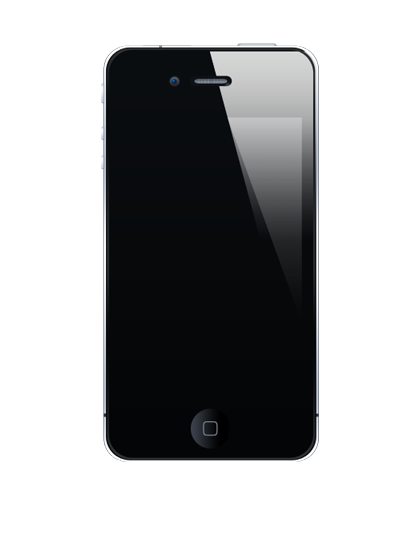
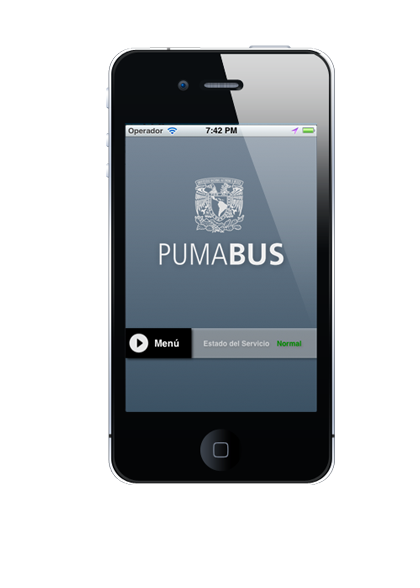
Added images and more text

diff --git a/app/assets/stylesheets/welcome.css.scss b/app/assets/stylesheets/welcome.css.scss
@@ -135,10 +135,22 @@ body, html {
 }
 
 #details {
-	padding-top: 70px;
-	height: 650px !important;
+	padding-top: 100px;
+	height: 720px !important;
 	background-color: rgba(1,16,46,1);
 	clear: right;
+	
+	.bottom-final {
+		margin-top: 50px;
+		width: 960px !important;
+					
+					
+		p {
+			text-align: center;
+			color: #DDBC69;
+			font-style: italic;
+		}
+	}
 	
 	.container {
 		width: 960px;
@@ -153,7 +165,8 @@ body, html {
 			li:hover, li.active {
 				background-color: rgba(255, 255, 255,0.02);
 			}
-			li {
+			
+			> li {
 				padding: 10px;
 				padding-bottom: 20px;
 				margin: 0;
@@ -172,12 +185,64 @@ body, html {
 					font-size: 13px;
 				}
 			}
+			
+			> li.no-border {
+				border-bottom: none;
+			}
 		}
 
 		.img-container {
 			height: 538px;
-			background-color: rgba(255, 255, 255,0.1);
+			
+			
+			div {
+				display: none;
+				margin-left: 100px;
+				margin-top:30px;
+				-moz-box-shadow: 1px 2px 3px #050505;
+				-webkit-box-shadow: 1px 2px 3px #050505;
+				box-shadow: 1px 2px 3px #050505;
+			}
+			
+			div#routes_ios {
+				background-image: url('../assets/routes_ios.png');
+				width: 322px;
+				height: 482px;
+				display: block;
+			}
+			
+			div#map_ios {
+				background-image: url('../assets/map_ios.png');
+				width: 322px;
+				height: 481px;
+			}
+			
+			div#real-time_ios {
+				background-image: url('../assets/rt_ios.png');
+				width: 322px;
+				height: 480px;
+			}
+			
+			div#places_ios {
+				background-image: url('../assets/places_ios.png');
+				width: 322px;
+				height: 480px;
+			}
+			
+			div#schedules_ios {
+				background-image: url('../assets/timetables_ios.png');
+				width: 322px;
+				height: 480px;
+			}
+			
+			div#bus_ios {
+				background-image: url('../assets/bus_ios.png');
+				width: 322px;
+				height: 482px;
+			}
 		}
+		
+		
 	}
 	
 }
@@ -283,7 +348,7 @@ body, html {
 }
 
 #contribute {
-	height: 700px;
+	height: 750px;
 	background-color: rgba(232, 150, 0, 0.3);
 	padding-top: 50px;
 	

diff --git a/app/assets/stylesheets/parallax.css.scss b/app/assets/stylesheets/parallax.css.scss
@@ -28,7 +28,7 @@ body {
 	height: 600px;
 	margin: 0 auto;
 	position: relative;
-	top: -30px;
+	top: 40px;
 	width: 960px;
 	
 	/*backface-visibility prevents graphical glitches when frames are animating*/
@@ -80,7 +80,7 @@ h3 {
 .next, .prev {
 	display: inline-block;
 	z-index: 10000;
-	position: relative;
+	position: absolute;
 	height: 71px;
 	width: 50px;
 }
@@ -414,9 +414,9 @@ h3 {
 }
 
 .iphone-shadow.animate-in {
-	left: 550px;
+	left: 560px;
 	opacity: 1;
-	top: 460px;
+	top: 480px;
 
 	-webkit-transition-delay: .3s;
 	-moz-transition-delay: .3s;

diff --git a/app/assets/javascripts/welcome.js b/app/assets/javascripts/welcome.js
@@ -147,8 +147,14 @@ $(document).ready(function() {
 	
 	// details context
 	
-	$('.grid li').bind('hover', function() {
+	$('.grid li').bind('mouseenter', function() {
 		$('.grid li').removeClass('active');
+		var type = $(this).attr('class').split(' ')[0];
 		$(this).addClass('active');
+		
+		$('#screen-container').children().hide();
+		
+		var elementToShow = "#"+type+"_ios";
+		$($('#screen-container').children(elementToShow)[0]).fadeIn();
 	});
 });
